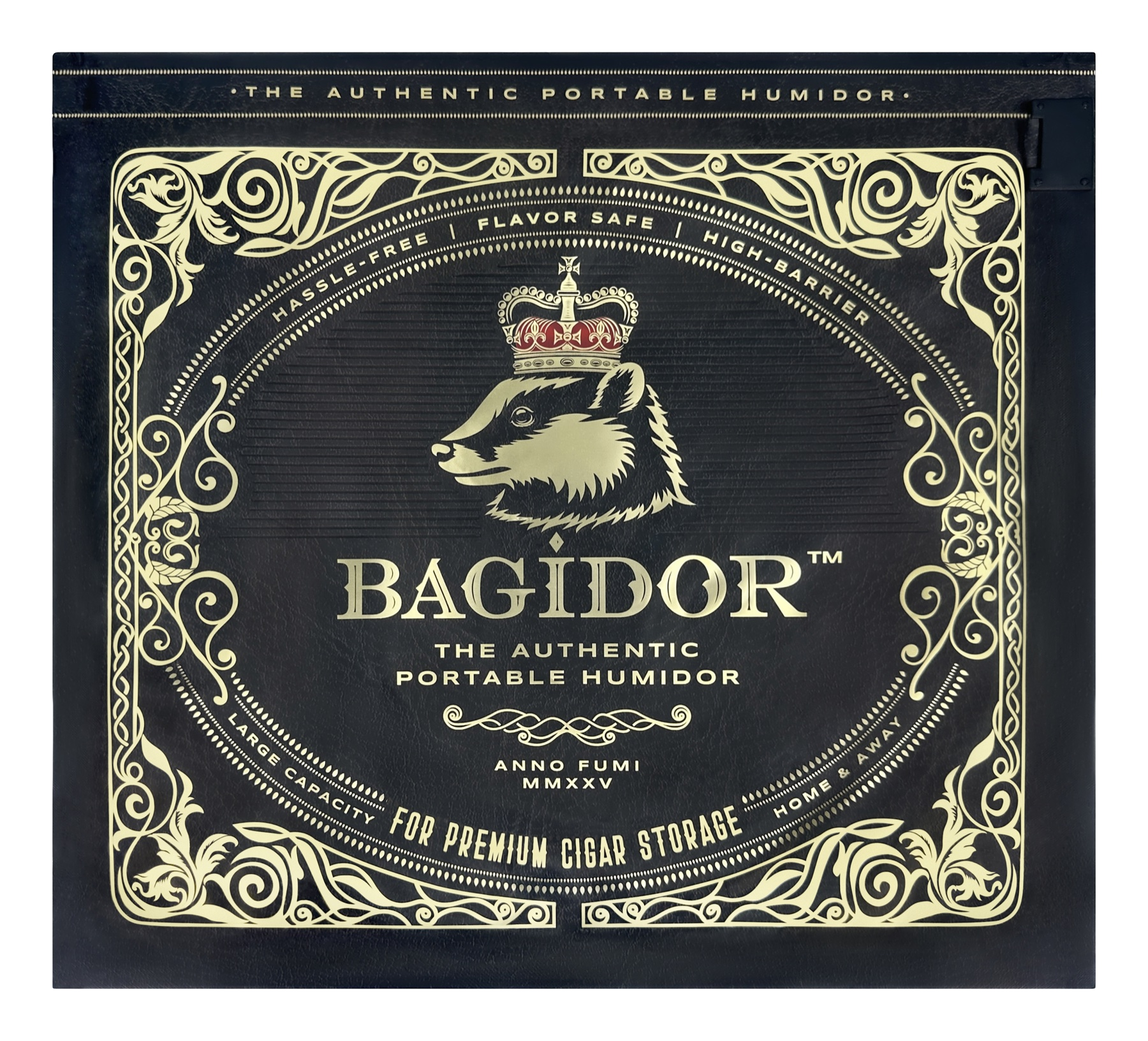
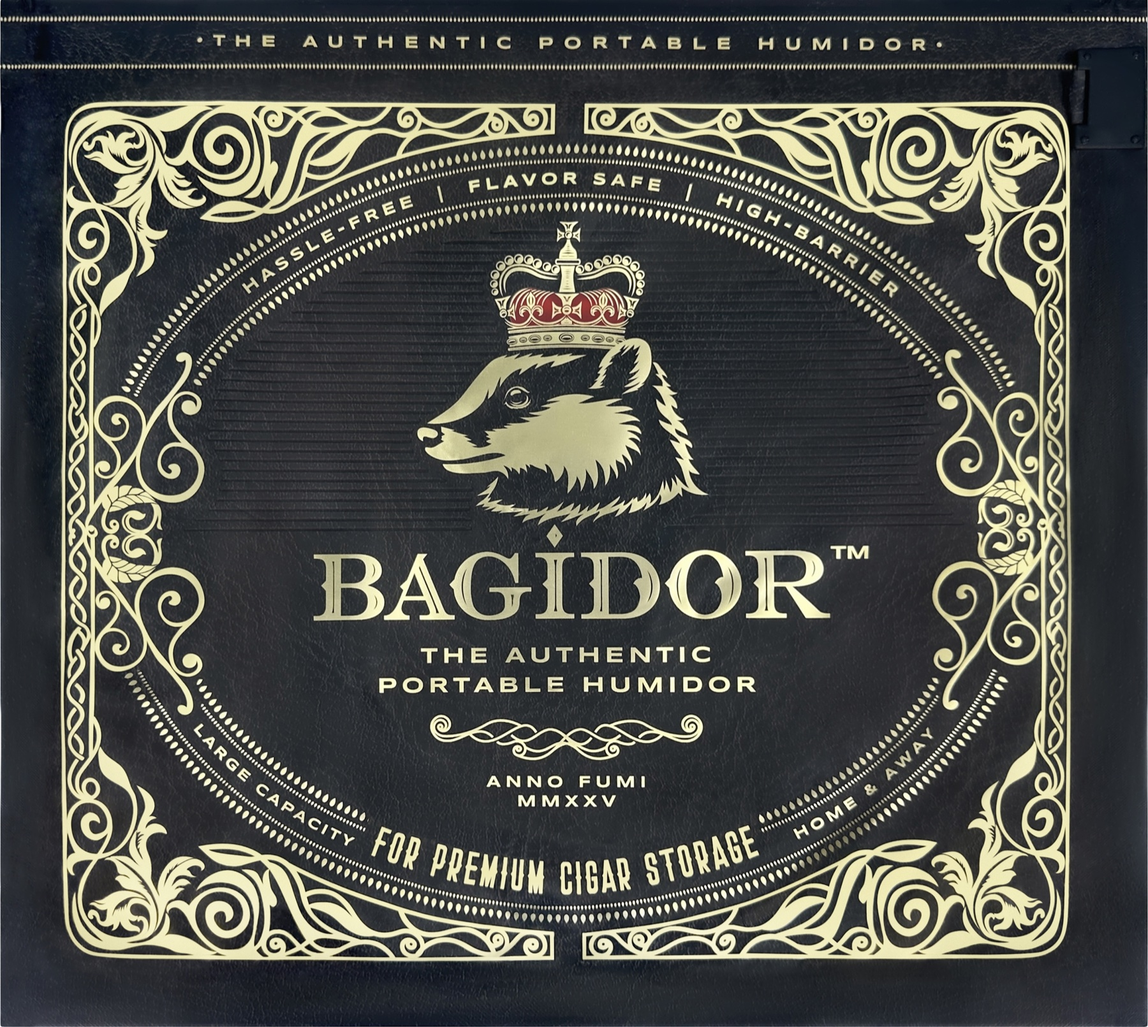
Replace hero product image and reorder copy

diff --git a/index.html b/index.html
@@ -178,14 +178,14 @@
         <div class="container hero-shell">
           <div class="hero-intro">
             <h1 class="hero-title" id="hero-title">BAGIDOR Portable Cigar Humidor Bag</h1>
+            <figure class="hero-product-image">
+              <img src="images/bagidor-front.jpeg" alt="Front view of the BAGIDOR portable cigar humidor bag" width="1800" height="1611" loading="lazy">
+            </figure>
             <div class="hero-copy">
               <strong class="hero-copy-highlight">Cigar Storage Perfected.</strong>
               <p>BAGIDOR is a new, convenient cigar storage system designed to make cigar care simple and effortless from the start. Use it for a few cigars, your everyday rotation, or up to 40 cigars for dependable daily or long-term storage.</p>
             </div>
           </div>
-          <figure class="hero-product-image">
-            <img src="images/bagidor-front.jpeg" alt="Front view of the BAGIDOR portable cigar humidor bag" width="1800" height="1633" loading="lazy">
-          </figure>
           <figure class="hero-media">
             <img src="images/bar.jpeg" alt="BAGIDOR cigar storage lifestyle image" width="1536" height="904" fetchpriority="high" decoding="async">
           </figure>

diff --git a/styles.css b/styles.css
@@ -556,7 +556,7 @@ h3 {
 
 .hero-product-image {
   width: min(100%, 920px);
-  margin: 0 auto;
+  margin: clamp(28px, 4vw, 46px) auto 0;
   overflow: hidden;
   background: #fff;
   border: 1px solid rgba(216, 201, 163, 0.22);
